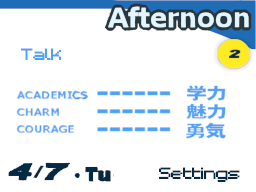
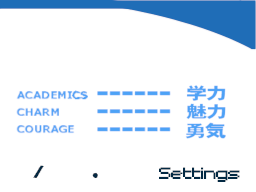
Added number, skill level, time sprites & updated menuMockup to remove baked-in sprites
This is still a WIP, but the concept is there. In the future, we should be able to swap out these sprites easily

diff --git a/source/views/IwatodaiDormView.cpp b/source/views/IwatodaiDormView.cpp
@@ -20,6 +20,12 @@
 // sprites
 #include "moon-0.h"
 #include "tuesday.h"
+#include "number-4.h"
+#include "number-7.h"
+#include "afternnoon-0-0.h"
+#include "afternnoon-1-0.h"
+#include "afternnoon-2-0.h"
+#include "skills-level.h"
 
 // TODO: move to header
 int characterTextureId;
@@ -88,7 +94,20 @@ void IwatodaiDormView::Init()
 
     // setup sprites
 	sprites[0] = {0, SpriteSize_32x32, SpriteColorFormat_256Color, 0, 0, 202, 20};  // moon
-    sprites[1] = {0, SpriteSize_32x32, SpriteColorFormat_256Color, 0, 15, 66, 143}; // day of the week
+    sprites[1] = {0, SpriteSize_32x32, SpriteColorFormat_256Color, 0, 1, 82, 143}; // day of the week
+    sprites[2] = {0, SpriteSize_32x32, SpriteColorFormat_256Color, 0, 2, -11, 140}; // number 4
+    sprites[3] = {0, SpriteSize_32x32, SpriteColorFormat_256Color, 0, 2, 25, 140}; // number 7
+    sprites[4] = {0, SpriteSize_64x32, SpriteColorFormat_256Color, 0, 3, 73, -12}; // afternoon (0)
+    sprites[5] = {0, SpriteSize_64x32, SpriteColorFormat_256Color, 0, 4, 137, -12}; // afternoon (1)
+    sprites[6] = {0, SpriteSize_32x32, SpriteColorFormat_256Color, 0, 5, 217, -17}; // afternoon (2)
+    sprites[7] = {0, SpriteSize_16x16, SpriteColorFormat_256Color, 0, 6, 86, 77}; // skills level
+
+    // NOTE: we can have max:
+    // 1 moon
+    // 1 day of the week
+    // 4 numbers
+    // 4 times
+    // 18 skill progress items (all same sprite)
 
 	// initialize sub sprite engine with 1D mapping, 128 byte boundry, external palette support
 	oamInit(&oamSub, SpriteMapping_1D_128, true);
@@ -96,14 +115,31 @@ void IwatodaiDormView::Init()
 	// allocating space for sprite graphics
 	sprites[0].gfx = oamAllocateGfx(&oamSub, SpriteSize_32x32, SpriteColorFormat_256Color);
     sprites[1].gfx = oamAllocateGfx(&oamSub, SpriteSize_32x32, SpriteColorFormat_256Color);
+    sprites[2].gfx = oamAllocateGfx(&oamSub, SpriteSize_32x32, SpriteColorFormat_256Color);
+    sprites[3].gfx = oamAllocateGfx(&oamSub, SpriteSize_32x32, SpriteColorFormat_256Color);
+    sprites[4].gfx = oamAllocateGfx(&oamSub, SpriteSize_64x32, SpriteColorFormat_256Color);
+    sprites[5].gfx = oamAllocateGfx(&oamSub, SpriteSize_64x32, SpriteColorFormat_256Color);
+    sprites[6].gfx = oamAllocateGfx(&oamSub, SpriteSize_32x32, SpriteColorFormat_256Color);
+    sprites[7].gfx = oamAllocateGfx(&oamSub, SpriteSize_16x16, SpriteColorFormat_256Color);
 
     // copy sprites
 	dmaCopy(moon_0Tiles, sprites[0].gfx, moon_0TilesLen);
     dmaCopy(tuesdayTiles, sprites[1].gfx, tuesdayTilesLen);
+    dmaCopy(number_4Tiles, sprites[2].gfx, number_4TilesLen);
+    dmaCopy(number_7Tiles, sprites[3].gfx, number_7TilesLen);
+    dmaCopy(afternnoon_0_0Tiles, sprites[4].gfx, afternnoon_0_0TilesLen);
+    dmaCopy(afternnoon_1_0Tiles, sprites[5].gfx, afternnoon_1_0TilesLen);
+    dmaCopy(afternnoon_2_0Tiles, sprites[6].gfx, afternnoon_2_0TilesLen);
+    dmaCopy(skills_levelTiles, sprites[7].gfx, skills_levelTilesLen);
 
     vramSetBankI(VRAM_I_LCD);
-    dmaCopy(moon_0Pal, &VRAM_I_EXT_SPR_PALETTE[0][0], moon_0PalLen);
-    dmaCopy(tuesdayPal, &VRAM_I_EXT_SPR_PALETTE[1][0], tuesdayPalLen);
+    dmaCopy(moon_0Pal, &VRAM_I_EXT_SPR_PALETTE[0][0], moon_0PalLen);    // moon palette
+    dmaCopy(tuesdayPal, &VRAM_I_EXT_SPR_PALETTE[1][0], tuesdayPalLen);  // day of the week palette
+    dmaCopy(number_4Pal, &VRAM_I_EXT_SPR_PALETTE[2][0], number_4PalLen);                // numbers palette
+    dmaCopy(afternnoon_0_0Pal, &VRAM_I_EXT_SPR_PALETTE[3][0], afternnoon_0_0PalLen);    // time palette (0)
+    dmaCopy(afternnoon_1_0Pal, &VRAM_I_EXT_SPR_PALETTE[4][0], afternnoon_1_0PalLen);    // time palette (0)
+    dmaCopy(afternnoon_2_0Pal, &VRAM_I_EXT_SPR_PALETTE[5][0], afternnoon_2_0PalLen);    // time palette (0)
+    dmaCopy(skills_levelPal, &VRAM_I_EXT_SPR_PALETTE[6][0], skills_levelPalLen);        // skills level
     vramSetBankI(VRAM_I_SUB_SPRITE_EXT_PALETTE);
 
     // setup player controller
@@ -189,7 +225,7 @@ ViewState IwatodaiDormView::Update()
             camPos.upX, camPos.upY, camPos.upZ);
 
         // draw sprites
-        for (int i = 0; i < 2; i++)
+        for (int i = 0; i < 7; i++)
         {
             oamSet(
                 &oamSub,                    // sub display (OamState)
@@ -201,6 +237,27 @@ ViewState IwatodaiDormView::Update()
                 sprites[i].format,
                 sprites[i].gfx,
                 sprites[i].rotationIndex,
+                true,         // double the size of rotated sprites
+                false,        // don't hide the sprite
+                false, false, // vflip, hflip
+                false         // apply mosaic
+            );
+        }
+
+        // render multiple of the same sprits
+        // in this case, the skills level
+        for (int i = 0; i < 3; i++)
+        {
+            oamSet(
+                &oamSub,                    // sub display (OamState)
+                7 + i,                      // oam entry to set (id)
+                sprites[7].x + (13 * i), sprites[7].y, // position
+                1,                          // priority
+                sprites[7].paletteAlpha,    // palette for 16 color sprite or alpha for bmp sprite
+                sprites[7].size,
+                sprites[7].format,
+                sprites[7].gfx,
+                sprites[7].rotationIndex,
                 true,         // double the size of rotated sprites
                 false,        // don't hide the sprite
                 false, false, // vflip, hflip